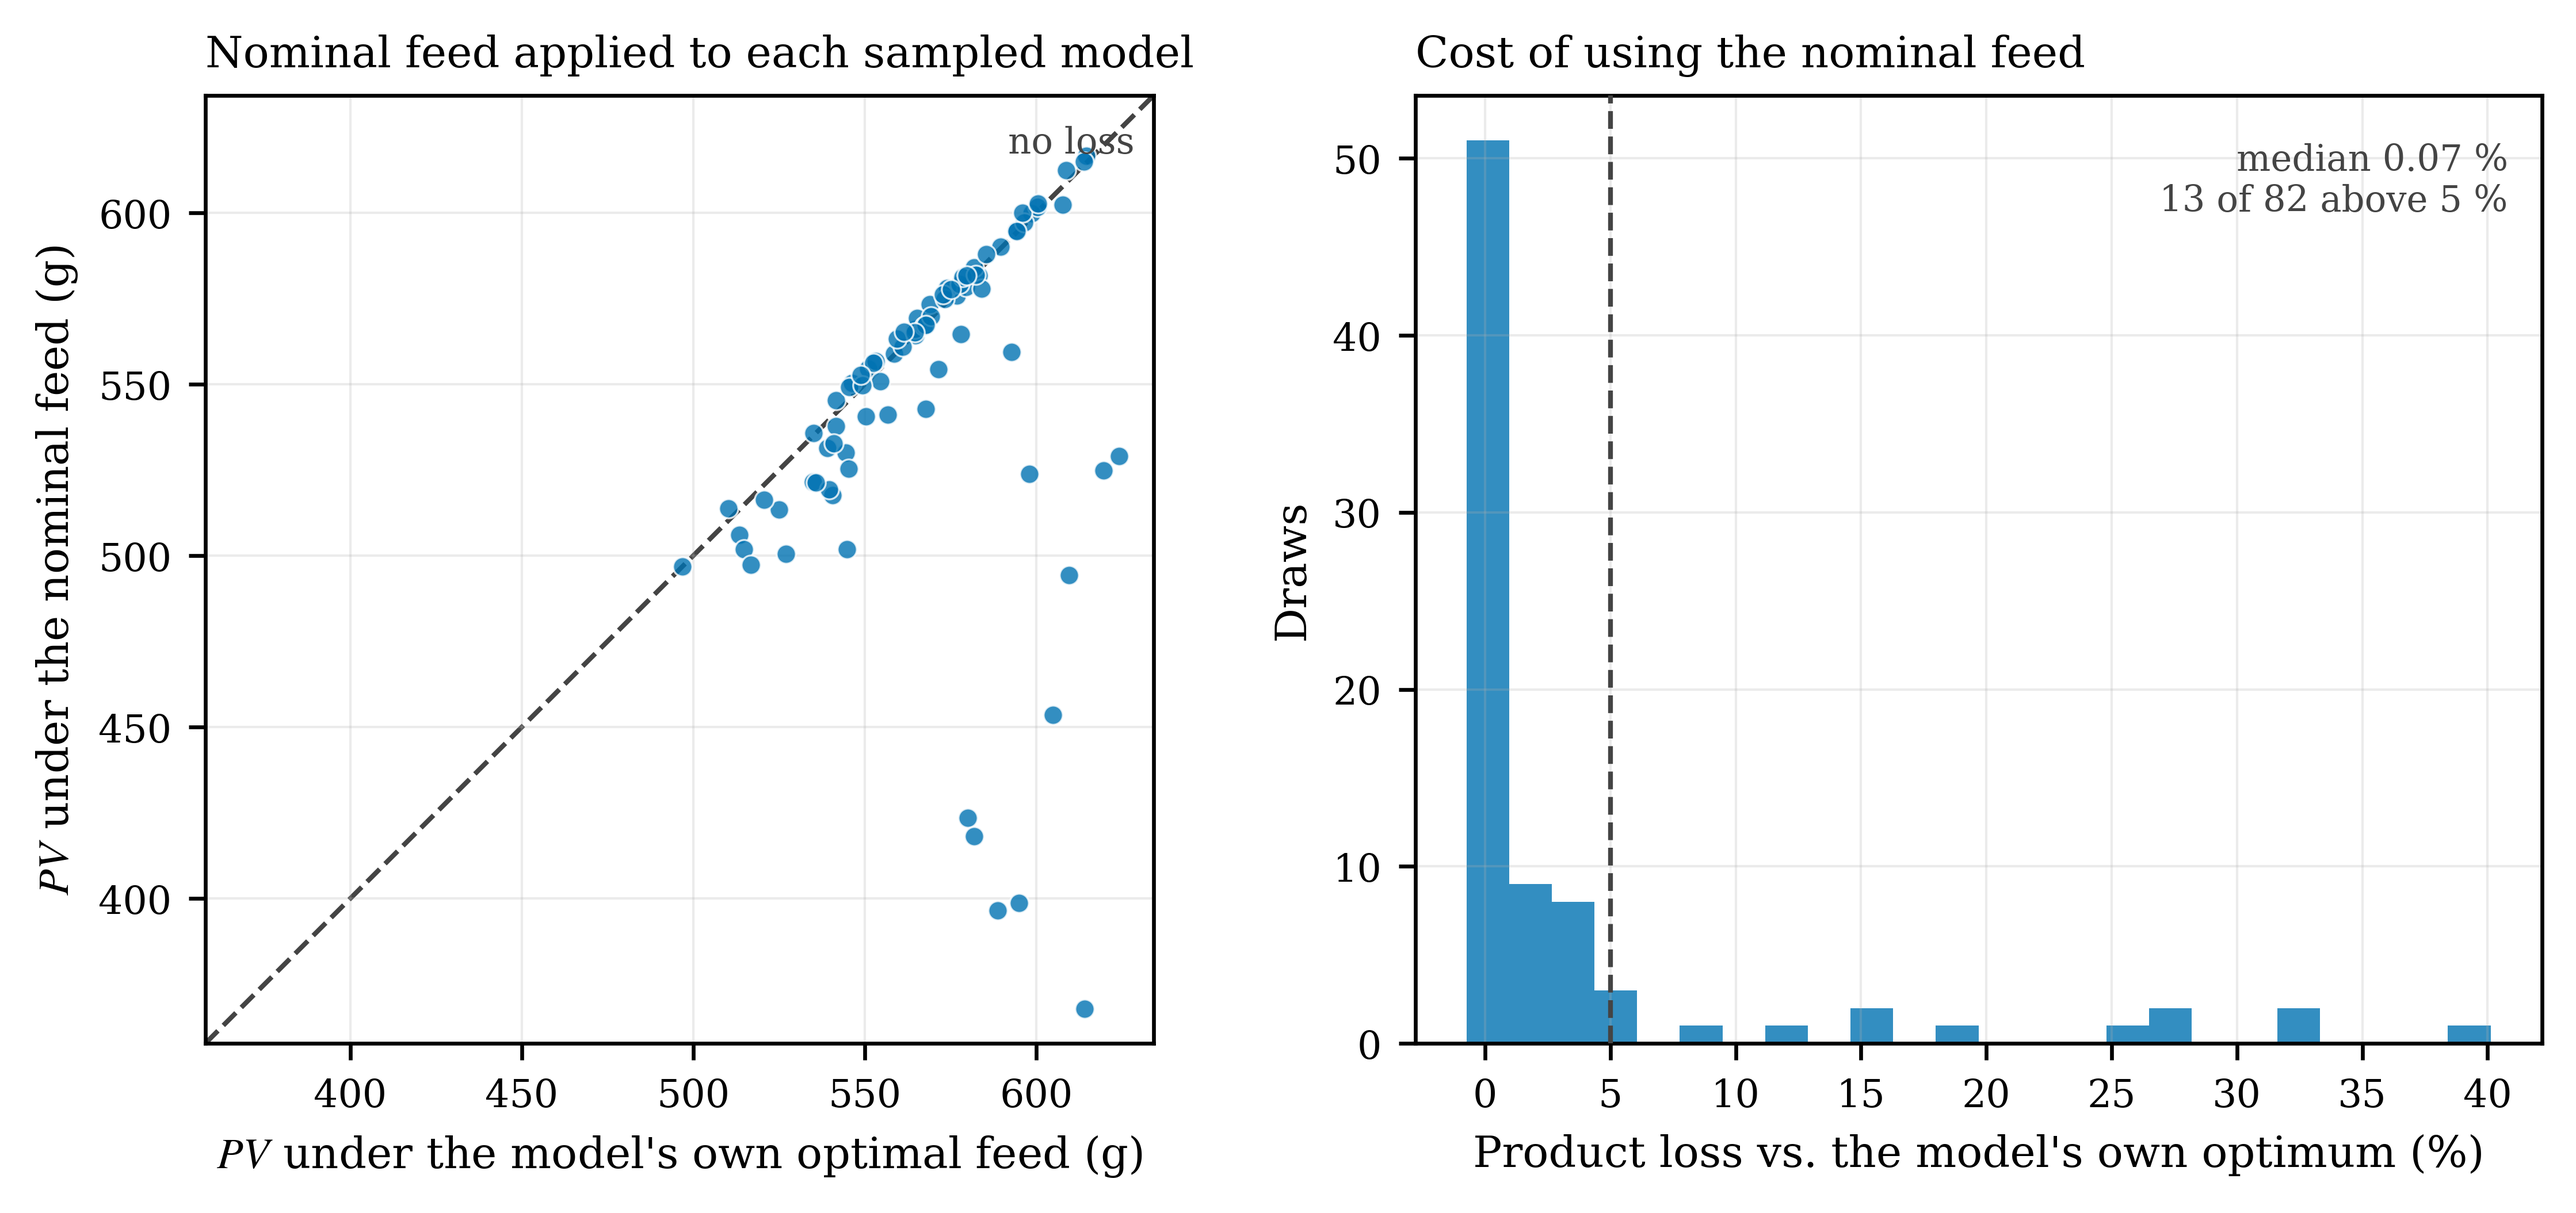
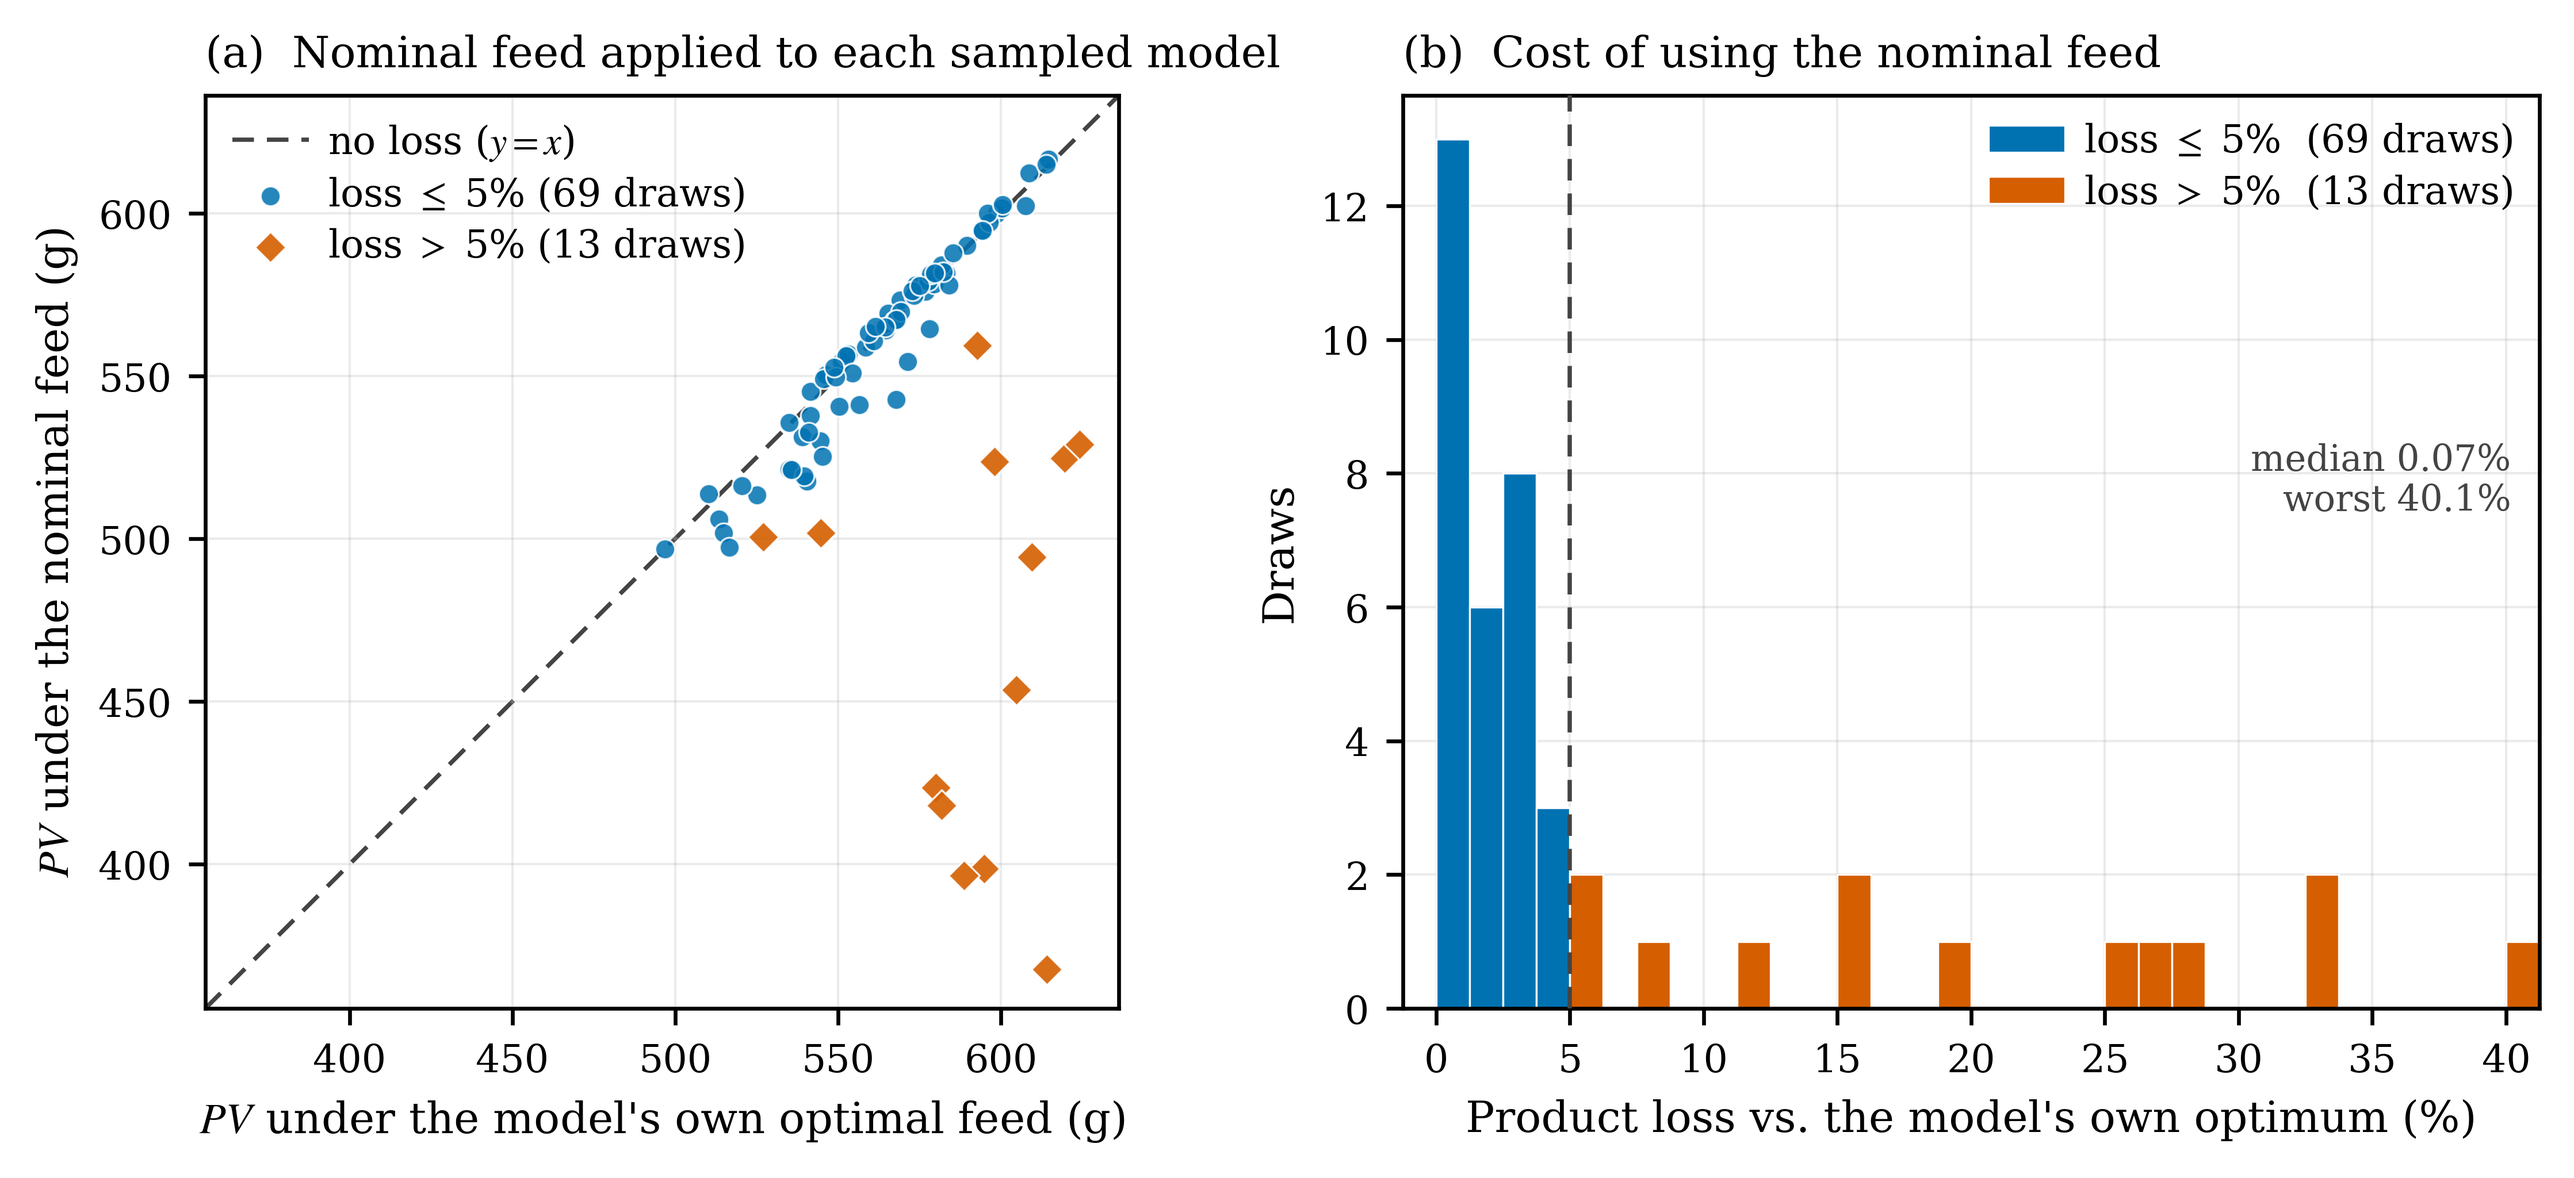
update format plots

diff --git a/scripts/substrate_and_product_inhibition/crossfeed.py b/scripts/substrate_and_product_inhibition/crossfeed.py
@@ -48,8 +48,13 @@ ENSEMBLE = MC / "feed_ensemble_balanced_cv20.npz"
 NOMINAL = MC / "feed_nominal_balanced.npz"
 FIGURE = HERE / "crossfeed.png"
 
-#: Okabe-Ito. One series, so one hue; the identity line is ink, not a series.
-C_B, C_INK = "#0072B2", "#444444"
+#: Okabe-Ito. Two series -- draws the nominal feed barely costs, and draws it costs a
+#: lot -- so two hues, the most CVD-separated pair in the set. The identity line and
+#: the threshold are ink, not series.
+C_OK, C_BAD, C_INK = "#0072B2", "#D55E00", "#444444"
+
+#: Loss above which a draw counts as materially hurt by the nominal feed (%).
+THRESH = 5.0
 
 
 def _rhs(t, y, args):
@@ -110,7 +115,7 @@ def main():
           f"p90 {np.percentile(loss_b, 90):5.2f} %   worst {loss_b.max():5.2f} %")
     print(f"    mean  {loss_b.mean():5.2f} +- {loss_b.std(ddof=1):.2f} %  "
           f"(skewed -- report the median)")
-    print(f"    above 5 % loss: {(loss_b > 5).sum()} of {n}\n")
+    print(f"    above {THRESH:g} % loss: {(loss_b > THRESH).sum()} of {n}\n")
 
     plt.rcParams.update({
         "font.family": "serif", "font.serif": ["Times New Roman", "Times", "DejaVu Serif"],
@@ -120,30 +125,53 @@ def main():
         "legend.frameon": False, "figure.dpi": 300, "savefig.dpi": 600,
         "axes.grid": True, "grid.alpha": 0.25, "grid.linewidth": 0.5,
     })
-    fig, (axL, axR) = plt.subplots(1, 2, figsize=(7.4, 3.4), constrained_layout=True)
+    fig, (axL, axR) = plt.subplots(1, 2, figsize=(7.4, 3.3), constrained_layout=True)
 
-    lo = min(pv_own.min(), pv_b.min()) - 10
-    hi = max(pv_own.max(), pv_b.max()) + 10
-    axL.plot([lo, hi], [lo, hi], color=C_INK, lw=1.0, ls="--", zorder=1)
-    axL.scatter(pv_own, pv_b, s=16, color=C_B, alpha=0.8, zorder=3,
-                edgecolor="white", linewidth=0.4)
-    axL.annotate("no loss", (hi, hi), textcoords="offset points", xytext=(-4, -12),
-                 ha="right", fontsize=7.5, color=C_INK)
+    costly = loss_b > THRESH
+    n_bad = int(costly.sum())
+
+    # --- (a) own optimum vs nominal feed, draw by draw --------------------------
+    # Equal aspect with the identity line is the point: every marker must fall ON or
+    # BELOW it, because no feed can beat a model's own optimum. The empty upper-left
+    # triangle is the sanity check, so it is kept rather than cropped away.
+    lo = min(pv_own.min(), pv_b.min()) - 12
+    hi = max(pv_own.max(), pv_b.max()) + 12
+    axL.plot([lo, hi], [lo, hi], color=C_INK, lw=0.9, ls=(0, (5, 3)), zorder=1,
+             label="no loss ($y = x$)")
+    axL.scatter(pv_own[~costly], pv_b[~costly], s=17, color=C_OK, alpha=0.85,
+                edgecolor="white", linewidth=0.4, zorder=3,
+                label=f"loss $\\leq$ {THRESH:g}% ({n - n_bad} draws)")
+    axL.scatter(pv_own[costly], pv_b[costly], s=21, color=C_BAD, alpha=0.9,
+                marker="D", edgecolor="white", linewidth=0.4, zorder=4,
+                label=f"loss $>$ {THRESH:g}% ({n_bad} draws)")
     axL.set_xlabel(r"$PV$ under the model's own optimal feed (g)")
     axL.set_ylabel(r"$PV$ under the nominal feed (g)")
-    axL.set_title("Nominal feed applied to each sampled model", loc="left")
+    axL.set_title("(a)  Nominal feed applied to each sampled model", loc="left")
     axL.set_xlim(lo, hi); axL.set_ylim(lo, hi)
     axL.set_aspect("equal", adjustable="box")
+    axL.legend(loc="upper left", handletextpad=0.5, borderpad=0.2, labelspacing=0.35)
 
-    # One series, so no legend box -- the title names it and the median is annotated.
-    axR.hist(loss_b, bins=24, color=C_B, alpha=0.8)
-    axR.axvline(5.0, color=C_INK, lw=1.0, ls="--", zorder=3)
-    axR.annotate(f"median {q2:.2f} %\n{(loss_b > 5).sum()} of {n} above 5 %",
-                 (0.97, 0.95), xycoords="axes fraction", ha="right", va="top",
+    # --- (b) the loss distribution ----------------------------------------------
+    # Bin width divides THRESH exactly, so the threshold is a bin EDGE and no bar
+    # straddles it. Without that, the bar spanning 4-5.5 % sits half on each side of
+    # the line and the split stops being readable off the bars. Colour carries the
+    # same 5 % split as panel (a): these bars are those diamonds.
+    bw = THRESH / 4.0
+    edges = np.arange(0.0, np.ceil(loss_b.max() / bw) * bw + bw, bw)
+    axR.hist([loss_b[~costly], loss_b[costly]], bins=edges, stacked=True,
+             color=[C_OK, C_BAD], edgecolor="white", linewidth=0.4, zorder=2,
+             label=[f"loss $\\leq$ {THRESH:g}%  ({n - n_bad} draws)",
+                    f"loss $>$ {THRESH:g}%  ({n_bad} draws)"])
+    axR.axvline(THRESH, color=C_INK, lw=0.9, ls=(0, (5, 3)), zorder=4)
+    axR.annotate(f"median {q2:.2f}%\nworst {loss_b.max():.1f}%",
+                 (0.975, 0.62), xycoords="axes fraction", ha="right", va="top",
                  fontsize=7.5, color=C_INK)
     axR.set_xlabel("Product loss vs. the model's own optimum (%)")
     axR.set_ylabel("Draws")
-    axR.set_title("Cost of using the nominal feed", loc="left")
+    axR.set_title("(b)  Cost of using the nominal feed", loc="left")
+    axR.set_xlim(-bw, edges[-1])
+    axR.legend(loc="upper right", handletextpad=0.5, borderpad=0.2,
+               labelspacing=0.35)
 
     fig.savefig(FIGURE, dpi=600, bbox_inches="tight")
     print(f"saved {FIGURE}")
